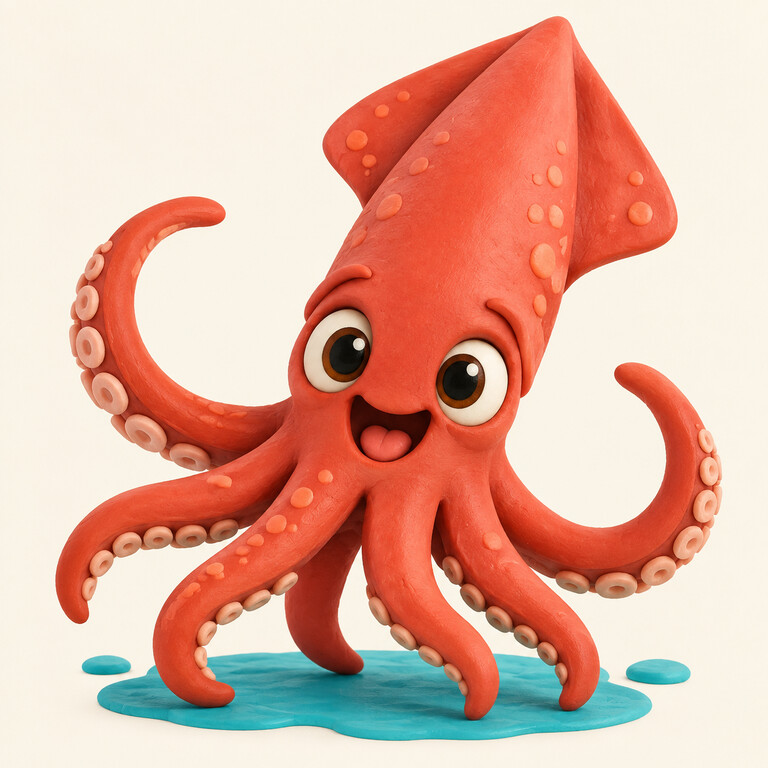
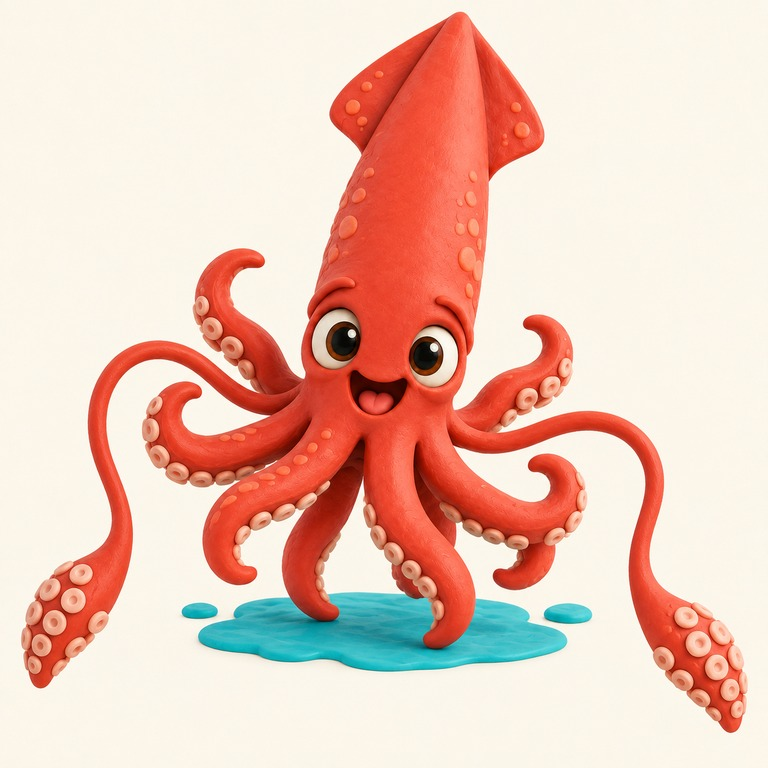
deploy: giant-squid tile replacement + sw shell v4 (source nila, PM row 262)

diff --git a/sw.js b/sw.js
@@ -1,6 +1,6 @@
 // Nila app-shell cache. Navigations are network-first so an installed TV cannot
 // stay stranded on an old app shell; immutable hashed assets remain cache-first.
-const SHELL = "nila-shell-v3";
+const SHELL = "nila-shell-v4";
 
 self.addEventListener("install", (event) => {
   event.waitUntil(caches.open(SHELL).then((cache) => cache.addAll(["./", "./index.html"])));
